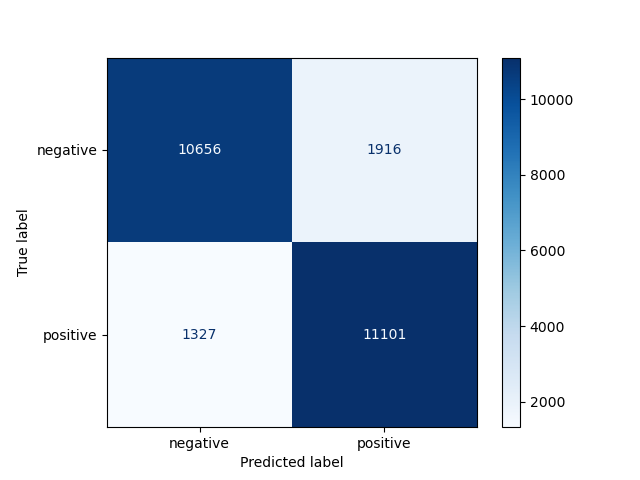
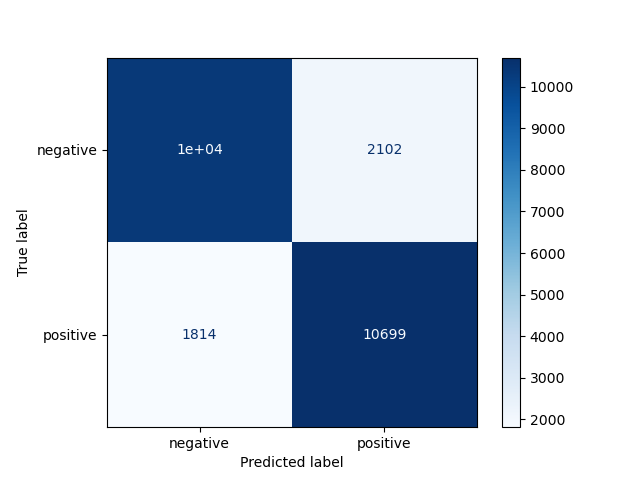
update results to go off of training sample

diff --git a/experiment-2/at_lstm_metric.py b/experiment-2/at_lstm_metric.py
@@ -1,26 +1,18 @@
 import matplotlib.pyplot as plt
-import train_at_lstm
-import preprocess
-from sklearn.model_selection import train_test_split
 import keras
 import random
 from sklearn.metrics import confusion_matrix, ConfusionMatrixDisplay, classification_report
-import numpy as np
 
 SEED = 42
 random.seed(SEED)
 
 
-if __name__ == '__main__':
+def gather_training_metrics(X_test, y_test):
 
-    cleaned_texts, sentiments = train_at_lstm.get_training_data(sample_size=50000)
+    # cleaned_texts, sentiments = train_at_lstm.get_training_data(sample_size=50000)
 
-    X_train, X_test, y_train, y_test = train_test_split(cleaned_texts, sentiments, 
-                                                         test_size=0.5)
-    y_test = y_test.tolist()
-    print('len of y true ' , len(y_test))
-    X_test = preprocess.provide_word_embeddings(X_test)
-    print('x test embeddings loaded')
+    # X_train, X_test, y_train, y_test = train_test_split(cleaned_texts, sentiments, 
+    #                                                      test_size=0.5)
 
     model = keras.models.load_model('experiment-2/models/binary_atlstm.model.keras')
 

diff --git a/experiment-2/train_at_lstm.py b/experiment-2/train_at_lstm.py
@@ -5,6 +5,7 @@ from preprocess import *
 import random
 from sklearn.model_selection import train_test_split
 import keras
+import at_lstm_metric
 
 
 SEED = 42
@@ -58,3 +59,6 @@ if __name__ == '__main__':
               callbacks=[model_checkpoint_callback],)
  
     print('training done. model saved.')
+
+    at_lstm_metric.gather_training_metrics(X_test, y_test)
+    print('experiment results gathered. saved to /results')
